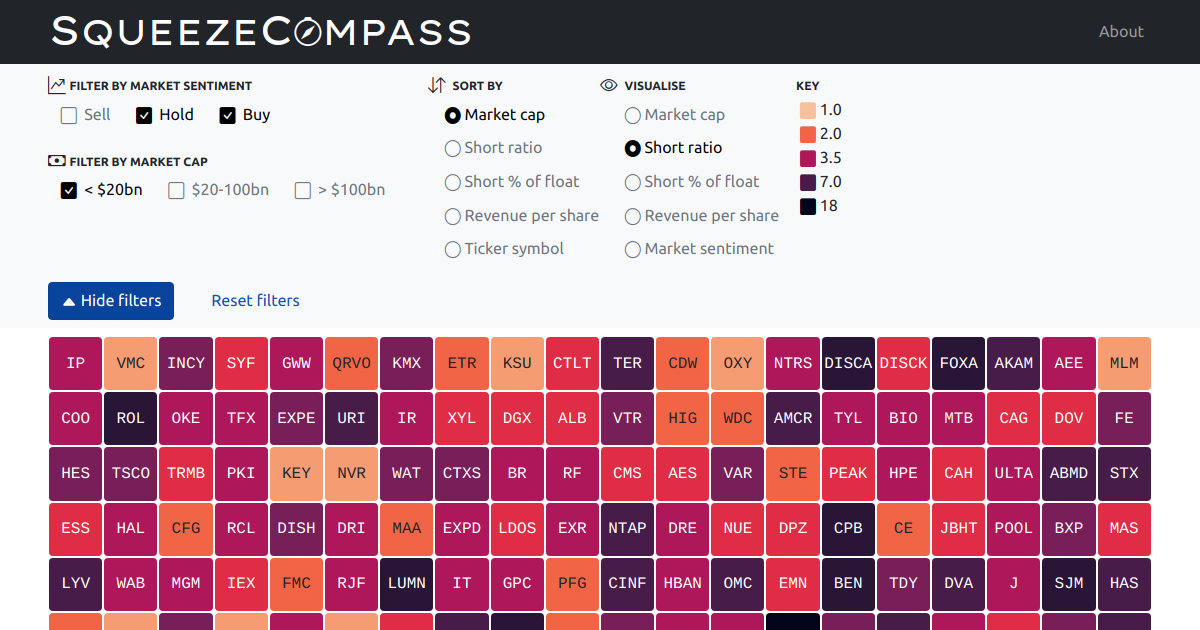
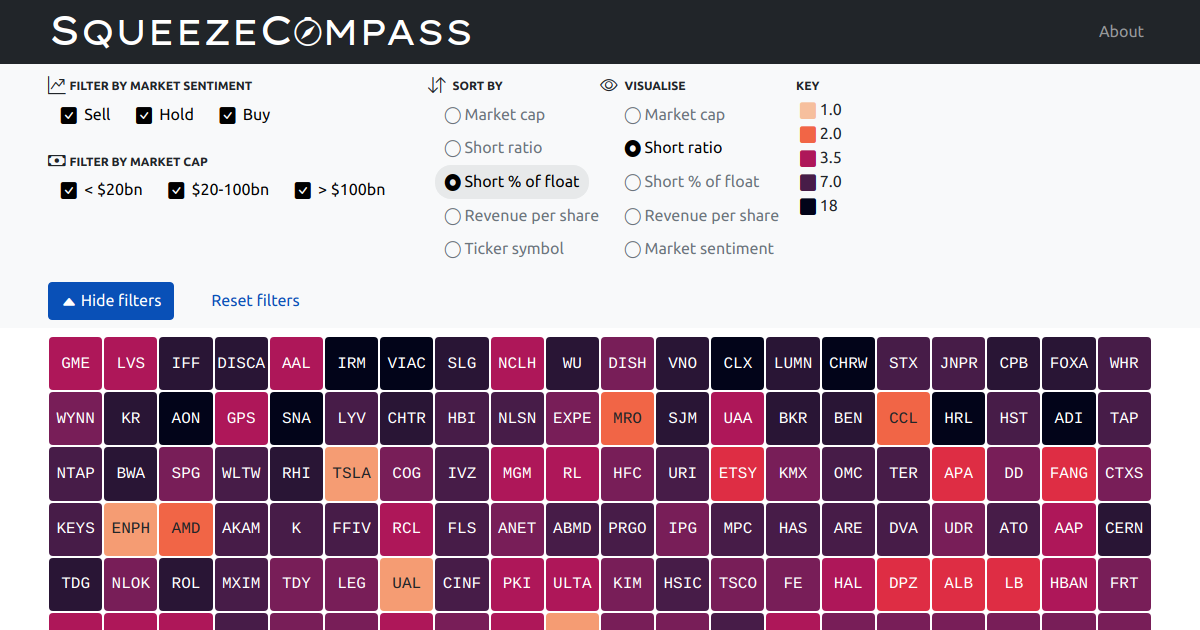
Post-deploy feedback

diff --git a/web/src/app/constituent-detail/constituent-detail.component.html b/web/src/app/constituent-detail/constituent-detail.component.html
@@ -68,17 +68,20 @@
 
           <dl class="row m-0" *ngIf="snapshot.summary.recommendation; let recommendation">
             <dt class="col-7">Market sentiment</dt>
-            <dd class="col-5" [class.pe-0]="recommendation === 'underperform' || recommendation === 'overperform'">
+            <dd class="col-5" [class.pe-0]="recommendation === 'underperform' || recommendation === 'overperform'" *ngIf="recommendation !== null">
               <i class="bi bi-square-fill pe-1"
                  [ngClass]="'colour-swatch colour-swatch' + sentimentsClasses[recommendation]"></i>
               <span [class.small]="recommendation === 'underperform' || recommendation === 'overperform'">{{sentimentsHumanized[recommendation]}}</span>
             </dd>
+            <dd class="col-5" *ngIf="recommendation === null">n/a</dd>
 
             <dt class="col-7">Avg vol (3 months)</dt>
-            <dd class="col-5">{{snapshot.summary.avg_vol_3_months / million | currency}}M</dd>
+            <dd class="col-5" *ngIf="snapshot.summary.avg_vol_3_months !== null">{{snapshot.summary.avg_vol_3_months / million | currency}}M</dd>
+            <dd class="col-5" *ngIf="snapshot.summary.avg_vol_3_months === null">n/a</dd>
 
             <dt class="col-7">Avg vol (10 days)</dt>
-            <dd class="col-5">{{snapshot.summary.avg_vol_10_days / million | currency}}M</dd>
+            <dd class="col-5" *ngIf="snapshot.summary.avg_vol_10_days !== null">{{snapshot.summary.avg_vol_10_days / million | currency}}M</dd>
+            <dd class="col-5" *ngIf="snapshot.summary.avg_vol_10_days === null">n/a</dd>
           </dl>
         </div>
       </div>
@@ -97,27 +100,40 @@
 
           <dl class="row m-0">
               <dt class="col-7">Market cap</dt>
-              <dd class="col-5" *ngIf="snapshot.financial.market_cap <= billion">{{snapshot.financial.market_cap / million | currency}}M</dd>
-              <dd class="col-5" *ngIf="billion < snapshot.financial.market_cap && snapshot.financial.market_cap <= trillion">{{snapshot.financial.market_cap / billion | currency}}B</dd>
-              <dd class="col-5" *ngIf="snapshot.financial.market_cap > trillion">{{snapshot.financial.market_cap / trillion | currency}}T</dd>
+              <dd class="col-5" *ngIf="snapshot.financial.market_cap !== null">
+                <span *ngIf="snapshot.financial.market_cap <= billion">{{snapshot.financial.market_cap / million | currency}}M</span>
+                <span *ngIf="billion < snapshot.financial.market_cap && snapshot.financial.market_cap <= trillion">{{snapshot.financial.market_cap / billion | currency}}B</span>
+                <span *ngIf="snapshot.financial.market_cap > trillion">{{snapshot.financial.market_cap / trillion | currency}}T</span>
+              </dd>
+              <dd class="col-5" *ngIf="snapshot.financial.market_cap === null">n/a</dd>
 
               <dt class="col-7">Total revenue</dt>
-              <dd class="col-5" *ngIf="snapshot.financial.total_revenue <= billion">{{snapshot.financial.total_revenue / million | currency}}M</dd>
-              <dd class="col-5" *ngIf="snapshot.financial.total_revenue > billion">{{snapshot.financial.total_revenue / billion | currency}}B</dd>
+              <dd class="col-5" *ngIf="snapshot.financial.total_revenue !== null">
+                <span *ngIf="snapshot.financial.total_revenue <= billion">{{snapshot.financial.total_revenue / million | currency}}M</span>
+                <span *ngIf="snapshot.financial.total_revenue > billion">{{snapshot.financial.total_revenue / billion | currency}}B</span>
+              </dd>
+              <dd class="col-5" *ngIf="snapshot.financial.total_revenue === null">n/a</dd>
 
               <dt class="col-7">Total cash</dt>
-              <dd class="col-5" *ngIf="snapshot.financial.total_cash <= billion">{{snapshot.financial.total_cash / million | currency}}M</dd>
-              <dd class="col-5" *ngIf="snapshot.financial.total_cash > billion">{{snapshot.financial.total_cash / billion | currency}}B</dd>
+              <dd class="col-5" *ngIf="snapshot.financial.total_cash !== null">
+                <span *ngIf="snapshot.financial.total_cash <= billion">{{snapshot.financial.total_cash / million | currency}}M</span>
+                <span *ngIf="snapshot.financial.total_cash > billion">{{snapshot.financial.total_cash / billion | currency}}B</span>
+              </dd>
+              <dd class="col-5" *ngIf="snapshot.financial.total_cash === null">n/a</dd>
 
               <dt class="col-7">Total debt</dt>
-              <dd class="col-5" *ngIf="snapshot.financial.total_debt <= billion">{{snapshot.financial.total_debt / million | currency}}M</dd>
-              <dd class="col-5" *ngIf="snapshot.financial.total_debt > billion">{{snapshot.financial.total_debt / billion | currency}}B</dd>
+              <dd class="col-5" *ngIf="snapshot.financial.total_debt !== null">
+                <span *ngIf="snapshot.financial.total_debt <= billion">{{snapshot.financial.total_debt / million | currency}}M</span>
+                <span *ngIf="snapshot.financial.total_debt > billion">{{snapshot.financial.total_debt / billion | currency}}B</span>
+              </dd>
+              <dd class="col-5" *ngIf="snapshot.financial.total_debt === null">n/a</dd>
 
-              <dt class="col-7">Gross profits</dt>
-              <dd class="col-5" *ngIf="abs(snapshot.financial.gross_profits) <= billion" [ngClass]="{'text-success': snapshot.financial.gross_profits > 0, 'text-danger': snapshot.financial.gross_profits < 0}">
-                {{snapshot.financial.gross_profits / million | currency}}M</dd>
-              <dd class="col-5" *ngIf="abs(snapshot.financial.gross_profits) > billion" [ngClass]="{'text-success': snapshot.financial.gross_profits > 0, 'text-danger': snapshot.financial.gross_profits < 0}">
-                {{snapshot.financial.gross_profits / billion | currency}}B</dd>
+              <dt class="col-7">Gross profit</dt>
+              <dd class="col-5" *ngIf="snapshot.financial.gross_profits !== null">
+                <span *ngIf="abs(snapshot.financial.gross_profits) <= billion" [ngClass]="{'text-success': snapshot.financial.gross_profits > 0, 'text-danger': snapshot.financial.gross_profits < 0}">{{snapshot.financial.gross_profits / million | currency}}M</span>
+                <span *ngIf="abs(snapshot.financial.gross_profits) > billion" [ngClass]="{'text-success': snapshot.financial.gross_profits > 0, 'text-danger': snapshot.financial.gross_profits < 0}">{{snapshot.financial.gross_profits / billion | currency}}B</span>
+              </dd>
+              <dd class="col-5" *ngIf="snapshot.financial.gross_profits === null">n/a</dd>
           </dl>
 
         </div>
@@ -132,22 +148,35 @@
 
           <dl class="row m-0">
               <dt class="col-7">Shares outstanding</dt>
-              <dd class="col-5" *ngIf="snapshot.key_stats.shares_outstanding <= billion">{{snapshot.key_stats.shares_outstanding / million | number:'1.2-2'}}M</dd>
-              <dd class="col-5" *ngIf="snapshot.key_stats.shares_outstanding > billion">{{snapshot.key_stats.shares_outstanding / billion | number:'1.2-2'}}B</dd>
+              <dd class="col-5" *ngIf="snapshot.key_stats.shares_outstanding !== null">
+                <span *ngIf="snapshot.key_stats.shares_outstanding <= billion">{{snapshot.key_stats.shares_outstanding / million | number:'1.2-2'}}M</span>
+                <span *ngIf="snapshot.key_stats.shares_outstanding > billion">{{snapshot.key_stats.shares_outstanding / billion | number:'1.2-2'}}B</span>
+              </dd>
+              <dd class="col-5" *ngIf="snapshot.key_stats.shares_outstanding === null">n/a</dd>
 
               <dt class="col-7">Float</dt>
-              <dd class="col-5" *ngIf="snapshot.key_stats.float_shares <= billion">{{snapshot.key_stats.float_shares / million | number:'1.2-2'}}M</dd>
-              <dd class="col-5" *ngIf="snapshot.key_stats.float_shares > billion">{{snapshot.key_stats.float_shares / billion | number:'1.2-2'}}B</dd>
+              <dd class="col-5" *ngIf="snapshot.key_stats.float_shares !== null">
+                <span *ngIf="snapshot.key_stats.float_shares <= billion">{{snapshot.key_stats.float_shares / million | number:'1.2-2'}}M</span>
+                <span *ngIf="snapshot.key_stats.float_shares > billion">{{snapshot.key_stats.float_shares / billion | number:'1.2-2'}}B</span>
+              </dd>
+              <dd class="col-5" *ngIf="snapshot.key_stats.float_shares === null">n/a</dd>
 
               <dt class="col-7">Shares short</dt>
-              <dd class="col-5" *ngIf="snapshot.key_stats.shares_short <= billion">{{snapshot.key_stats.shares_short / million | number:'1.2-2'}}M</dd>
-              <dd class="col-5" *ngIf="snapshot.key_stats.shares_short > billion">{{snapshot.key_stats.shares_short / billion | number:'1.2-2'}}B</dd>
+              <dd class="col-5" *ngIf="snapshot.key_stats.shares_short !== null">
+                <span *ngIf="snapshot.key_stats.shares_short <= billion">{{snapshot.key_stats.shares_short / million | number:'1.2-2'}}M</span>
+                <span *ngIf="snapshot.key_stats.shares_short > billion">{{snapshot.key_stats.shares_short / billion | number:'1.2-2'}}B</span>
+              </dd>
+              <dd class="col-5" *ngIf="snapshot.key_stats.shares_short === null">n/a</dd>
 
               <dt class="col-7">Short % of float</dt>
-              <dd class="col-5">{{snapshot.key_stats.short_percent_of_float | percent:'1.2-2'}}</dd>
+              <dd class="col-5" *ngIf="snapshot.key_stats.short_percent_of_float !== null">
+                {{snapshot.key_stats.short_percent_of_float | percent:'1.2-2'}}
+              </dd>
+              <dd class="col-5" *ngIf="snapshot.key_stats.short_percent_of_float === null">n/a</dd>
 
               <dt class="col-7">Short ratio</dt>
-              <dd class="col-5">{{snapshot.key_stats.short_ratio}}</dd>
+              <dd class="col-5" *ngIf="snapshot.key_stats.short_ratio !== null">{{snapshot.key_stats.short_ratio}}</dd>
+              <dd class="col-5" *ngIf="snapshot.key_stats.short_ratio === null">n/a</dd>
           </dl>
 
         </div>

diff --git a/web/src/app/constituent-grid-filter/constituent-grid-filter.component.ts b/web/src/app/constituent-grid-filter/constituent-grid-filter.component.ts
@@ -1,7 +1,7 @@
 import {Component, OnInit} from '@angular/core';
-import {ActivatedRoute, Router} from "@angular/router";
+import {ActivatedRoute, Router} from '@angular/router';
 import {FilterMarketCap, FilterSentiment, FilterTrayOpen, SortBy, Visualise} from '../enum/FilterQueryParamValues';
-import {FilterQueryParams} from "../interface/FilterQueryParams";
+import {FilterQueryParams} from '../interface/FilterQueryParams';
 
 
 @Component({
@@ -17,14 +17,14 @@ export class ConstituentGridFilterComponent implements OnInit {
   public SortBy = SortBy;
   public Visualise = Visualise;
 
-  curQueryParams: FilterQueryParams = <FilterQueryParams>{};
+  curQueryParams: FilterQueryParams = {} as FilterQueryParams;
   readonly defaultQueryParams: FilterQueryParams = {
     ft: FilterTrayOpen[FilterTrayOpen.c],
     fms: [FilterSentiment[FilterSentiment.s], FilterSentiment[FilterSentiment.h], FilterSentiment[FilterSentiment.b]].join(','),
     fcp: [FilterMarketCap[FilterMarketCap.lt], FilterMarketCap[FilterMarketCap.bt], FilterMarketCap[FilterMarketCap.gt]].join(','),
-    so: SortBy[SortBy.al],
-    vi: Visualise[Visualise.ms],
-  }
+    so: SortBy[SortBy.fl],
+    vi: Visualise[Visualise.sh],
+  };
 
   inQueryParams = (key: string, val: string): boolean => {
     if (this.curQueryParams.hasOwnProperty(key) && typeof this.curQueryParams[key] !== 'undefined') {
@@ -32,24 +32,24 @@ export class ConstituentGridFilterComponent implements OnInit {
       return this.curQueryParams[key].includes(val);
     }
     return false;
-  };
+  }
 
   curQueryParamsAreDefault(): boolean {
     // Check whether the filter query params are currently set to the default values.
     // Ignore parameter `ft` since we don't want to enable / disable the
     // 'Reset filters' button each time the filtertray is opened/closed.
-    let defaultQueryParamsWithoutFT = {...this.defaultQueryParams};
-    let curQueryParamsWithoutFT = {...this.curQueryParams};
+    const defaultQueryParamsWithoutFT = {...this.defaultQueryParams};
+    const curQueryParamsWithoutFT = {...this.curQueryParams};
     delete defaultQueryParamsWithoutFT.ft;
     delete curQueryParamsWithoutFT.ft;
 
-    let defaultQueryParamKeys = Object.keys(defaultQueryParamsWithoutFT).sort();
-    let defaultQueryParamValues = Object.values(defaultQueryParamsWithoutFT).sort();
-    let curQueryParamKeys = Object.keys(curQueryParamsWithoutFT).sort();
-    let curQueryParamValues = Object.values(curQueryParamsWithoutFT).sort();
+    const defaultQueryParamKeys = Object.keys(defaultQueryParamsWithoutFT).sort();
+    const defaultQueryParamValues = Object.values(defaultQueryParamsWithoutFT).sort();
+    const curQueryParamKeys = Object.keys(curQueryParamsWithoutFT).sort();
+    const curQueryParamValues = Object.values(curQueryParamsWithoutFT).sort();
 
-    let keysAreEqual = JSON.stringify(curQueryParamKeys) === JSON.stringify(defaultQueryParamKeys);
-    let valuesAreEqual = JSON.stringify(curQueryParamValues) === JSON.stringify(defaultQueryParamValues);
+    const keysAreEqual = JSON.stringify(curQueryParamKeys) === JSON.stringify(defaultQueryParamKeys);
+    const valuesAreEqual = JSON.stringify(curQueryParamValues) === JSON.stringify(defaultQueryParamValues);
 
     return keysAreEqual && valuesAreEqual;
   }
@@ -62,7 +62,7 @@ export class ConstituentGridFilterComponent implements OnInit {
       this.curQueryParams = p;
     });
 
-    let queryParamKeys = Object.keys(this.curQueryParams);
+    const queryParamKeys = Object.keys(this.curQueryParams);
     if (queryParamKeys.length === 0 || !this.curQueryParamsAreDefault()) {
       this.resetToDefaultFilters();
     }
@@ -72,7 +72,7 @@ export class ConstituentGridFilterComponent implements OnInit {
   }
 
   // --- Filter metacontrols: open/close tray, clear filters. ------------------
-  onToggleFilterTrayOpen() {
+  onToggleFilterTrayOpen(): void {
     let filterStatus: string;
 
     if (this.curQueryParams.ft === FilterTrayOpen[FilterTrayOpen.c]) {
@@ -81,15 +81,15 @@ export class ConstituentGridFilterComponent implements OnInit {
       filterStatus = FilterTrayOpen[FilterTrayOpen.c];
     }
 
-    this.router.navigate(['/'], { queryParams: { ft: filterStatus }, queryParamsHandling: "merge" });
+    this.router.navigate(['/'], { queryParams: { ft: filterStatus }, queryParamsHandling: 'merge' });
   }
 
   resetToDefaultFilters(): void {
-    let defaultQueryParams = this.defaultQueryParams;
+    const defaultQueryParams = this.defaultQueryParams;
     if (this.curQueryParams.ft != null) {
       defaultQueryParams.ft = this.curQueryParams.ft;
     }
-    this.router.navigate(['/'], { queryParams: defaultQueryParams, queryParamsHandling: "merge" });
+    this.router.navigate(['/'], { queryParams: defaultQueryParams, queryParamsHandling: 'merge' });
   }
 
   // --- Filter, Sort, and Visualise Query Parameters --------------------------
@@ -107,7 +107,7 @@ export class ConstituentGridFilterComponent implements OnInit {
 
 // ----- FILTER ----------------------------------------------------------------
   filterBy(categoryQueryStringKey: string, filterOption: FilterSentiment | FilterMarketCap): void {
-    let filterValue: string = '';
+    let filterValue = '';
     switch (categoryQueryStringKey) {
       case 'fms':
         filterValue = FilterSentiment[filterOption];
@@ -119,7 +119,7 @@ export class ConstituentGridFilterComponent implements OnInit {
 
     if (filterValue === '') { return; }  // Exit if no filterValue is assigned.
 
-    let categoryQueryString: string = <string>this.route.snapshot.queryParamMap.get(categoryQueryStringKey);
+    let categoryQueryString: string = this.route.snapshot.queryParamMap.get(categoryQueryStringKey) as string;
     if (categoryQueryString === null) {
       // If no option is selected for this option, apply the one that was clicked.
       categoryQueryString = filterValue;
@@ -135,13 +135,13 @@ export class ConstituentGridFilterComponent implements OnInit {
       }
     }
 
-    let newQueryParams: {[index: string]: string|null} = {};
+    const newQueryParams: {[index: string]: string|null} = {};
     if (categoryQueryString.length === 0) {
       newQueryParams[categoryQueryStringKey] = null;
     } else {
       newQueryParams[categoryQueryStringKey] = categoryQueryString;
     }
-    this.router.navigate(['/'], { queryParams: newQueryParams, queryParamsHandling: "merge" })
+    this.router.navigate(['/'], { queryParams: newQueryParams, queryParamsHandling: 'merge' });
   }
 
   filterByMarketSentiment(sentiment: FilterSentiment): void {
@@ -153,13 +153,13 @@ export class ConstituentGridFilterComponent implements OnInit {
   }
 
 // ----- SORT ------------------------------------------------------------------
-  sortByUpdateRoute(order: SortBy) {
-    this.router.navigate(['/'], { queryParams: { so: SortBy[order] }, queryParamsHandling: "merge" });
+  sortByUpdateRoute(order: SortBy): void {
+    this.router.navigate(['/'], { queryParams: { so: SortBy[order] }, queryParamsHandling: 'merge' });
   }
 
 // ----- VISUALISE -------------------------------------------------------------
-  visualiseByUpdateRoute(scheme: Visualise) {
-    this.router.navigate(['/'], { queryParams: { vi: Visualise[scheme] }, queryParamsHandling: "merge" });
+  visualiseByUpdateRoute(scheme: Visualise): void {
+    this.router.navigate(['/'], { queryParams: { vi: Visualise[scheme] }, queryParamsHandling: 'merge' });
   }
 
 }

diff --git a/web/src/app/constituent-grid/constituent-grid-data-wrapper.component.ts b/web/src/app/constituent-grid/constituent-grid-data-wrapper.component.ts
@@ -1,8 +1,8 @@
 import { Component, OnInit } from '@angular/core';
-import {ConstituentSnapshot} from "../interface/ConstituentSnapshot";
-import {ActivatedRoute} from "@angular/router";
-import {FilterQueryParams} from "../interface/FilterQueryParams";
-import {environment} from "../../environments/environment";
+import {ConstituentSnapshot} from '../interface/ConstituentSnapshot';
+import {ActivatedRoute} from '@angular/router';
+import {FilterQueryParams} from '../interface/FilterQueryParams';
+import {environment} from '../../environments/environment';
 
 
 @Component({
@@ -15,7 +15,7 @@ export class ConstituentGridDataWrapperComponent implements OnInit {
   private route: ActivatedRoute;
   originalSnapshots: ConstituentSnapshot[];  // Store original array as fetched from JSON.
   snapshots: ConstituentSnapshot[];  // Store transformations of originalSnapshots according to applied filters.
-  filtersReturnNothing: boolean = false;
+  filtersReturnNothing = false;
 
   constructor(route: ActivatedRoute) {
     this.route = route;
@@ -43,8 +43,8 @@ export class ConstituentGridDataWrapperComponent implements OnInit {
     let orderedSnapshots: ConstituentSnapshot[] = [];
 
     // Filter
-    let sentimentSnapshots: ConstituentSnapshot[] = this.filterByMarketSentiment(queryParams.fms);
-    let marketCapSnapshots: ConstituentSnapshot[] = this.filterByMarketCap(queryParams.fcp);
+    const sentimentSnapshots: ConstituentSnapshot[] = this.filterByMarketSentiment(queryParams.fms);
+    const marketCapSnapshots: ConstituentSnapshot[] = this.filterByMarketCap(queryParams.fcp);
     // Find intersection of both filtered arrays of snapshots.
     filteredSnapshots = sentimentSnapshots.filter(({ symbol: sy1 }) => marketCapSnapshots.some(({ symbol: sy2 }) => sy2 === sy1));
     // Sort
@@ -74,16 +74,16 @@ export class ConstituentGridDataWrapperComponent implements OnInit {
 // ----- FILTER ----------------------------------------------------------------
   filterByMarketSentiment(marketSentimentQueryValue?: string): ConstituentSnapshot[] {
     const sentimentMap: {[sentiment: string]: string[]} = {
-      'b': ['strong_buy', 'buy', 'overperform'],
-      'h': ['hold'],
-      's': ['underperform', 'sell', 'strong_sell'],
+      b: ['strong_buy', 'buy', 'overperform'],
+      h: ['hold'],
+      s: ['underperform', 'sell', 'strong_sell'],
     };
 
     if (marketSentimentQueryValue == null) { return []; }
 
-    let sentiments: string[] = marketSentimentQueryValue.split(',');
-    let sentimentSlugs: string[] = sentiments.reduce((acc: string[], s: string) => acc.concat(sentimentMap[s]), []);
-    let filteredSnapshots = [...this.originalSnapshots].filter(snap => sentimentSlugs.includes(snap.summary.recommendation));
+    const sentiments: string[] = marketSentimentQueryValue.split(',');
+    const sentimentSlugs: string[] = sentiments.reduce((acc: string[], s: string) => acc.concat(sentimentMap[s]), []);
+    const filteredSnapshots = [...this.originalSnapshots].filter(snap => sentimentSlugs.includes(snap.summary.recommendation));
     return filteredSnapshots;
   }
 
@@ -97,21 +97,21 @@ export class ConstituentGridDataWrapperComponent implements OnInit {
      * max: 2 215 357 710 336
      */
     const marketCapMap: {[marketCap: string]: number[]} = {
-      'lt': [0, 20000000000],
-      'bt': [20000000000, 100000000000],
-      'gt': [100000000000, 10000000000000],
+      lt: [0, 20000000000],
+      bt: [20000000000, 100000000000],
+      gt: [100000000000, 10000000000000],
     };
 
     if (marketCapQueryValue == null) { return []; }
 
-    let marketCaps: string[] = marketCapQueryValue.split(',');
-    let marketCapRanges: number[][] = marketCaps.map(capVal => marketCapMap[capVal]);
+    const marketCaps: string[] = marketCapQueryValue.split(',');
+    const marketCapRanges: number[][] = marketCaps.map(capVal => marketCapMap[capVal]);
 
-    let filteredSnapshots: ConstituentSnapshot[] = [];
+    const filteredSnapshots: ConstituentSnapshot[] = [];
 
     marketCapRanges.forEach(range => {
-      let snapshotsWithinRange: ConstituentSnapshot[] = [...this.originalSnapshots].filter(snap => {
-        let cap: number = snap.financial.market_cap;
+      const snapshotsWithinRange: ConstituentSnapshot[] = [...this.originalSnapshots].filter(snap => {
+        const cap: number = snap.financial.market_cap;
         return range[0] <= cap && cap <= range[1];
       });
       filteredSnapshots.push(...snapshotsWithinRange);

diff --git a/web/src/assets/css/styles.scss b/web/src/assets/css/styles.scss
@@ -272,7 +272,7 @@ $sentiment-none: $gray-300;
 $sentiment-strong-buy: #20AC39;
 $sentiment-buy: #64E076;
 $sentiment-overperform: #BDF8B3;
-$sentiment-hold: #FBFBDA;
+$sentiment-hold: #F7F7B6;
 $sentiment-underperform: #FFCEC6;
 $sentiment-sell: #F66069;
 $sentiment-strong-sell: #D30D1E;

diff --git a/web/src/environments/environment.ts b/web/src/environments/environment.ts
@@ -5,7 +5,7 @@
 export const environment = {
   production: false,
 
-  filePathForSnapshot: './assets/data/2021-01-31_snapshot.json',
+  filePathForSnapshot: './assets/data/2021-02-12_snapshot.json',
   filePathForConstituents: './assets/data/2021-02-01_constituents.json'
 };
 

diff --git a/web/src/environments/environment.prod.ts b/web/src/environments/environment.prod.ts
@@ -1,6 +1,6 @@
 export const environment = {
   production: true,
 
-  filePathForSnapshot: './assets/data/2021-01-31_snapshot.json',
+  filePathForSnapshot: './assets/data/2021-02-12_snapshot.json',
   filePathForConstituents: './assets/data/2021-02-01_constituents.json'
 };
